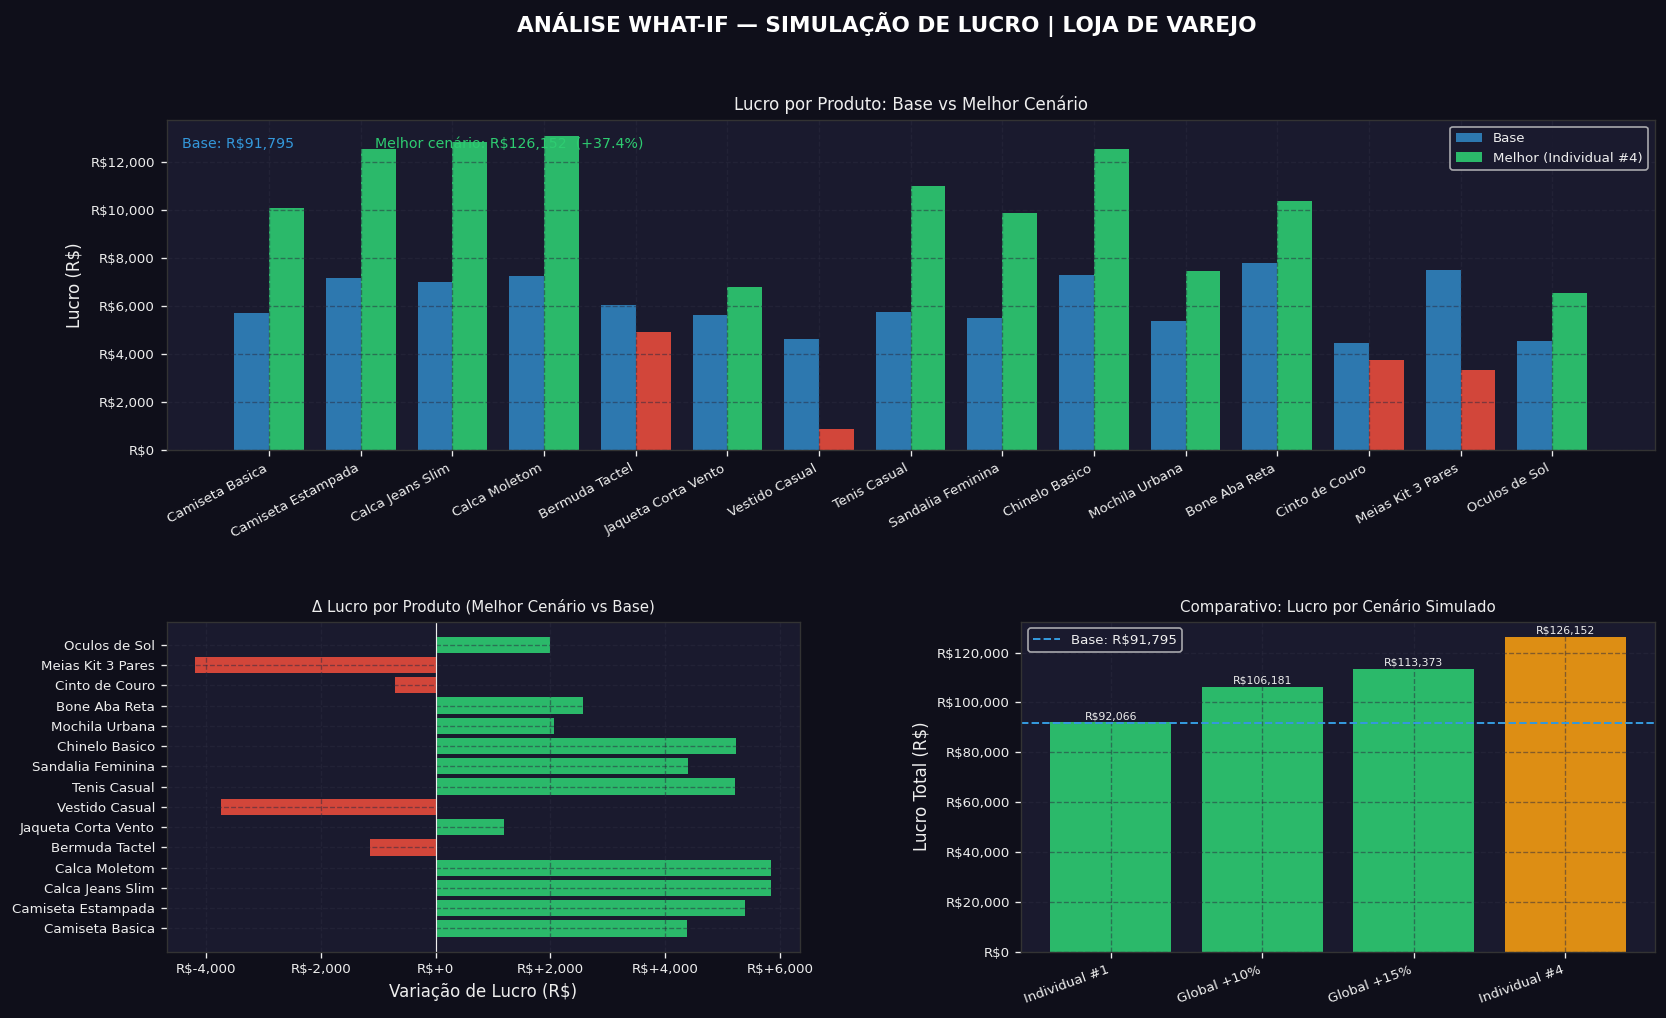
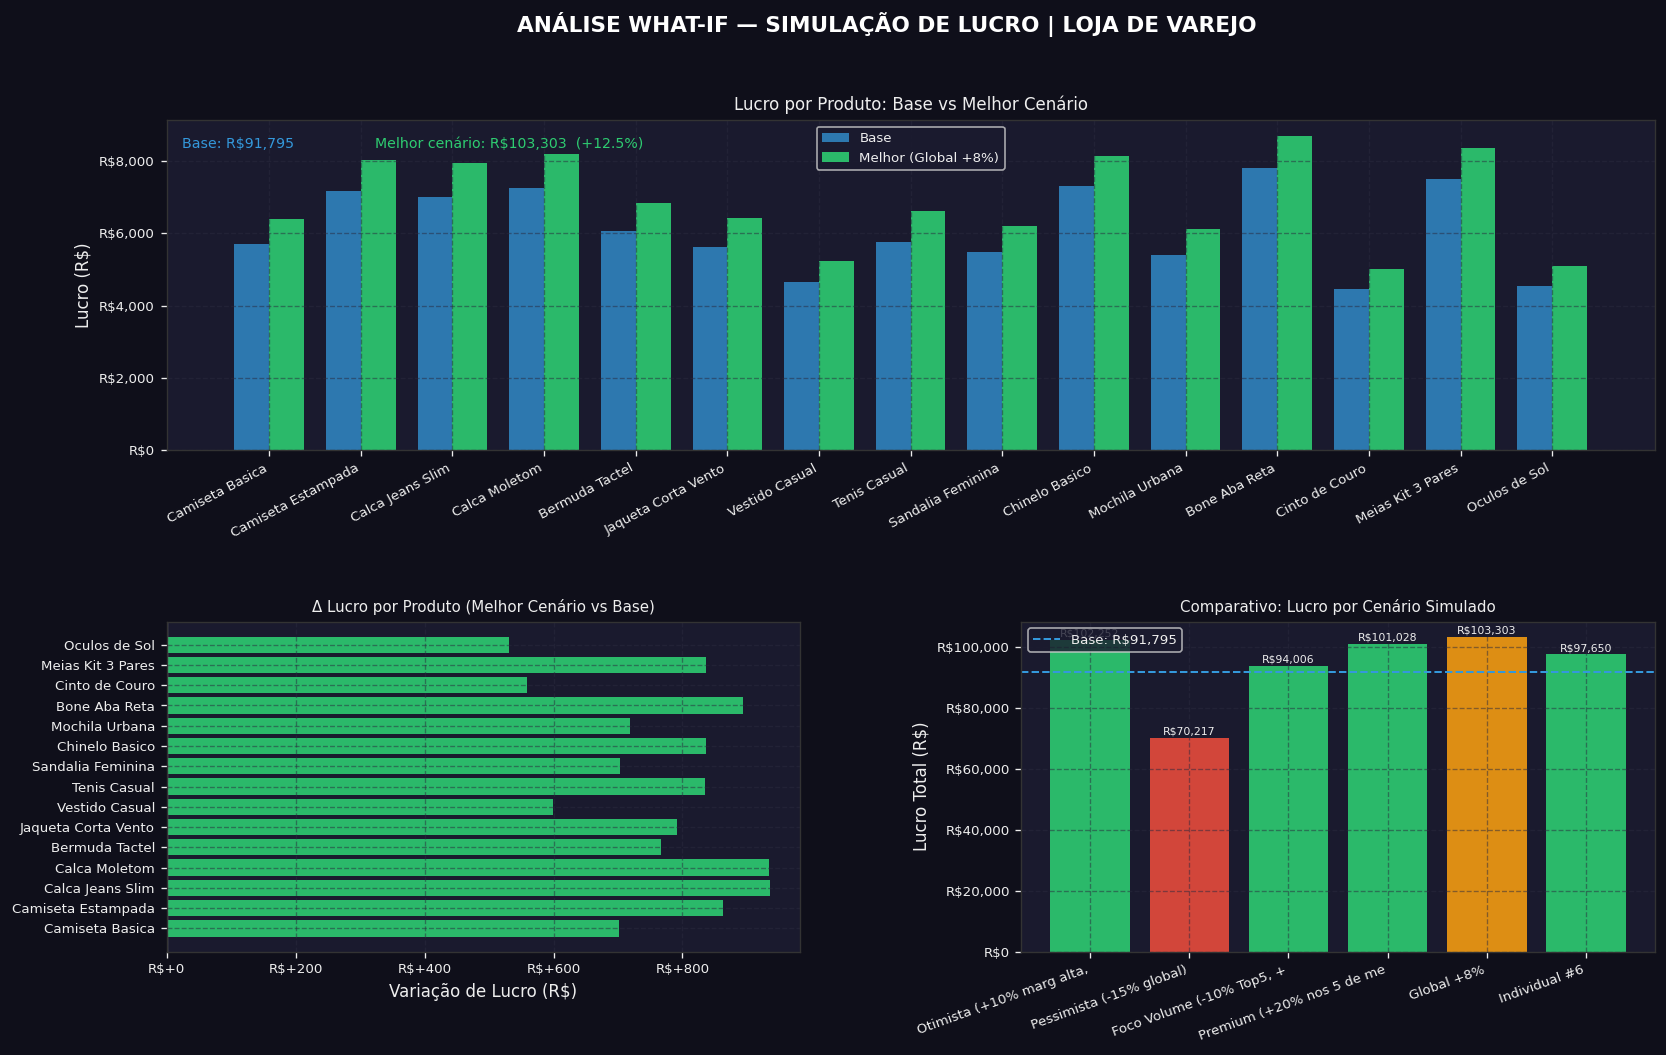
updating code; adding features and readme

diff --git a/analise_whatif.py b/analise_whatif.py
@@ -9,6 +9,7 @@ Rode sem argumentos para o menu interativo:
 Ou passe direto no terminal:
   python analise_whatif.py --global 10
   python analise_whatif.py --global -15
+  python analise_whatif.py --auto
   python analise_whatif.py --lista
 """
 
@@ -220,6 +221,57 @@ def plotar(df, historico):
     print("  [Gráfico salvo em grafico_whatif.png]")
 
 # ──────────────────────────────────────────────────
+#  CENÁRIOS AUTOMÁTICOS PRÉ-DEFINIDOS
+# ──────────────────────────────────────────────────
+def cenarios_automaticos(df):
+    """
+    Retorna uma lista de cenários pré-configurados baseados em regras
+    de negócio sobre os dados atuais.
+    """
+    cenarios = []
+
+    # ── auxiliares ──
+    df_sorted_qtd = df.sort_values("quantidade_vendida", ascending=False)
+    top5_volume   = df_sorted_qtd.head(5)["produto"].tolist()
+    bot5_volume   = df_sorted_qtd.tail(5)["produto"].tolist()
+    media_margem  = df["margem_base"].mean()
+
+    # ── 1. Otimista: sobe preço em margens altas, leve ajuste nas baixas ──
+    vm_otimista = {}
+    for _, r in df.iterrows():
+        if r["margem_base"] >= media_margem:
+            vm_otimista[r["produto"]] = +10.0
+        else:
+            vm_otimista[r["produto"]] = +5.0
+    cenarios.append({"label": "Otimista (+10% marg alta, +5% demais)",
+                     "variacoes": vm_otimista})
+
+    # ── 2. Pessimista: redução generalizada (crise/recessão) ──
+    vm_pessimista = {p: -15.0 for p in df["produto"]}
+    cenarios.append({"label": "Pessimista (-15% global)",
+                     "variacoes": vm_pessimista})
+
+    # ── 3. Foco em Volume: desconto nos campeões de venda, compensa no resto ──
+    vm_volume = {}
+    for _, r in df.iterrows():
+        if r["produto"] in top5_volume:
+            vm_volume[r["produto"]] = -10.0
+        else:
+            vm_volume[r["produto"]] = +8.0
+    cenarios.append({"label": "Foco Volume (-10% Top5, +8% demais)",
+                     "variacoes": vm_volume})
+
+    # ── 4. Premium: sobe preço nos itens de nicho (baixo volume, margem alta) ──
+    vm_premium = {p: 0.0 for p in df["produto"]}
+    for p in bot5_volume:
+        vm_premium[p] = +20.0
+    cenarios.append({"label": "Premium (+20% nos 5 de menor volume)",
+                     "variacoes": vm_premium})
+
+    return cenarios
+
+
+# ──────────────────────────────────────────────────
 #  MODO INTERATIVO
 # ──────────────────────────────────────────────────
 def modo_interativo(df):
@@ -233,6 +285,7 @@ def modo_interativo(df):
         print(LINHA)
         print("  1  Aplicar variação % global em todos os produtos")
         print("  2  Aplicar variação % individual por produto")
+        print("  3  Executar cenários automáticos pré-definidos")
         if n > 0:
             print(f"  R  Ver recomendação ({n} cenário{'s' if n>1 else ''} simulado{'s' if n>1 else ''})")
         print("  0  Sair")
@@ -275,6 +328,42 @@ def modo_interativo(df):
                                "lucro": res["lucro_novo"].sum(), "res": res})
             print(f"\n  Cenário '{label}' registrado. Total acumulado: {len(historico)} cenário(s).")
 
+        elif opcao == "3":
+            auto = cenarios_automaticos(df)
+            for i, c in enumerate(auto):
+                print(f"  {i+1}  {c['label']}")
+            print(f"  A  Executar TODOS de uma vez")
+            print(f"  0  Voltar")
+            print()
+            sub = input("  Escolha o cenário (1-4, A ou 0): ").strip().upper()
+
+            if sub == "0":
+                print("  Voltando ao menu principal.")
+            elif sub == "A":
+                for c in auto:
+                    res   = calcular_cenario(df, c["variacoes"])
+                    label = c["label"]
+                    c["lucro"] = res["lucro_novo"].sum()
+                    c["res"]   = res
+                    imprimir_cenario(res, f"CENÁRIO: {label}")
+                    historico.append({"label": label, "variacoes": c["variacoes"],
+                                       "lucro": c["lucro"], "res": res})
+                print(f"\n  {len(auto)} cenários automáticos registrados. "
+                      f"Total acumulado: {len(historico)} cenário(s).")
+            elif sub in ("1", "2", "3", "4"):
+                idx  = int(sub) - 1
+                c    = auto[idx]
+                res  = calcular_cenario(df, c["variacoes"])
+                c["lucro"] = res["lucro_novo"].sum()
+                c["res"]   = res
+                imprimir_cenario(res, f"CENÁRIO: {c['label']}")
+                historico.append({"label": c["label"], "variacoes": c["variacoes"],
+                                   "lucro": c["lucro"], "res": res})
+                print(f"\n  Cenário '{c['label']}' registrado. "
+                      f"Total acumulado: {len(historico)} cenário(s).")
+            else:
+                print("  [ERRO] Escolha inválida. Voltando ao menu.")
+
         elif opcao == "R" and historico:
             recomendar_melhor(df, historico)
             plotar(df, historico)
@@ -303,12 +392,30 @@ def main():
 
     if "--global" in args:
         idx = args.index("--global")
+        if idx + 1 >= len(args):
+            print("[ERRO] --global requer um valor percentual. Ex: --global 10")
+            return
         v   = float(args[idx + 1])
         vm  = {p: v for p in df["produto"]}
         res = calcular_cenario(df, vm)
         imprimir_cenario(res, f"CENÁRIO: {v:+.1f}% EM TODOS OS PRODUTOS")
         historico = [{"label": f"Global {v:+.0f}%", "variacoes": vm,
                       "lucro": res["lucro_novo"].sum(), "res": res}]
+        recomendar_melhor(df, historico)
+        plotar(df, historico)
+        plt.show()
+        return
+
+    if "--auto" in args:
+        auto = cenarios_automaticos(df)
+        historico = []
+        for c in auto:
+            res = calcular_cenario(df, c["variacoes"])
+            c["lucro"] = res["lucro_novo"].sum()
+            c["res"]   = res
+            imprimir_cenario(res, f"CENÁRIO: {c['label']}")
+            historico.append({"label": c["label"], "variacoes": c["variacoes"],
+                               "lucro": c["lucro"], "res": res})
         recomendar_melhor(df, historico)
         plotar(df, historico)
         plt.show()

diff --git a/README.md b/README.md
@@ -1,1 +1,112 @@
-# SAD_P1
+# SAD_P1 -- Analise What-If: Simulacao de Lucro em Loja de Varejo
+
+Ferramenta de apoio a decisao que permite simular diferentes cenarios de
+precificacao em uma loja de varejo e estimar o lucro resultante em cada caso.
+Faz parte da disciplina Sistemas de Apoio a Decisao (SAD).
+
+## Descricao do problema
+
+Uma loja deseja entender como alteracoes nos precos dos produtos impactam o
+lucro final. O modelo permite variar os precos (para cima ou para baixo) e
+observar o efeito sobre o lucro total, a margem de cada produto e o ranking
+dos cenarios mais vantajosos.
+
+## Funcionalidades
+
+- Carregamento de dados via arquivo CSV com precos, custos e quantidades.
+- Modo interativo com menu textual para simulacao passo a passo.
+- Modo linha de comando para execucao rapida de cenarios.
+- Cenarios automaticos pre-definidos (Otimista, Pessimista, Foco em Volume,
+  Premium), com opcao de executa-los individualmente ou em lote.
+- Visualizacao grafica com tres paineis:
+  - Lucro por produto: base versus melhor cenario.
+  - Variacao de lucro por produto no melhor cenario.
+  - Comparativo de lucro total entre todos os cenarios simulados.
+- Recomendacao do cenario mais vantajoso com destaque para o produto de maior
+  ganho, o de maior perda e alerta de margem baixa.
+- Exportacao automatica do grafico em PNG (grafico_whatif.png).
+
+## Dados de entrada
+
+O arquivo `produtos.csv` deve conter as seguintes colunas:
+
+| Coluna             | Descricao                             |
+| ------------------ | ------------------------------------- |
+| produto            | Nome do produto                       |
+| categoria          | Categoria (Vestuario, Calcados, etc.) |
+| preco_atual        | Preco de venda atual (R$)             |
+| custo_unitario     | Custo unitario do produto (R$)        |
+| quantidade_vendida | Unidades vendidas no periodo          |
+
+O projeto ja inclui um arquivo de exemplo com 15 produtos em 3 categorias.
+
+## Como usar
+
+### Modo interativo (recomendado)
+
+```bash
+python analise_whatif.py
+```
+
+O programa exibe um menu com as seguintes opcoes:
+
+- **1** -- Aplica uma variacao percentual unica a todos os produtos.
+- **2** -- Aplica variacoes individuais, produto por produto.
+- **3** -- Abre o submenu de cenarios automaticos pre-definidos.
+- **R** -- Exibe a recomendacao e os graficos com base nos cenarios ja
+  simulados (so aparece apos o primeiro cenario ser registrado).
+- **0** -- Encerra o programa, mostrando a recomendacao final e os graficos.
+
+### Modo linha de comando
+
+```bash
+python analise_whatif.py --global 10      # aplica +10% em todos os produtos
+python analise_whatif.py --global -15     # aplica -15% em todos os produtos
+python analise_whatif.py --auto           # executa os 4 cenarios automaticos
+python analise_whatif.py --lista          # lista os produtos disponiveis
+```
+
+### Cenarios automaticos
+
+Ao escolher a opcao `3` no menu interativo (ou `--auto` na linha de comando),
+quatro cenarios pre-configurados ficam disponiveis:
+
+| #   | Cenario     | Regra                                                       |
+| --- | ----------- | ----------------------------------------------------------- |
+| 1   | Otimista    | +10% nos produtos com margem acima da media; +5% nos demais |
+| 2   | Pessimista  | -15% em todos os produtos (simula crise/retracao)           |
+| 3   | Foco Volume | -10% nos 5 produtos mais vendidos; +8% nos demais           |
+| 4   | Premium     | +20% apenas nos 5 produtos de menor volume                  |
+
+E possivel escolher um cenario especifico (`1` a `4`), executar todos de uma
+vez (`A`) ou voltar ao menu (`0`).
+
+## Dependencias
+
+O projeto requer **Python 3.9 ou superior** e as bibliotecas listadas abaixo.
+
+### Instalacao das bibliotecas
+
+```bash
+pip install pandas matplotlib numpy
+```
+
+| Biblioteca | Finalidade                                    |
+| ---------- | --------------------------------------------- |
+| pandas     | Leitura do CSV e manipulacao dos dados        |
+| matplotlib | Geracao dos graficos de barras e comparativos |
+| numpy      | Operacoes numericas auxiliares                |
+
+As tres bibliotecas sao amplamente utilizadas em analise de dados e estao
+disponiveis no indice oficial do PyPI. Nao ha dependencias externas alem
+destas.
+
+## Estrutura do projeto
+
+```
+SAD_P1/
+  analise_whatif.py   -- Codigo principal
+  produtos.csv        -- Base de dados dos produtos
+  README.md           -- Este arquivo
+  grafico_whatif.png  -- Graficos explicativos
+```
